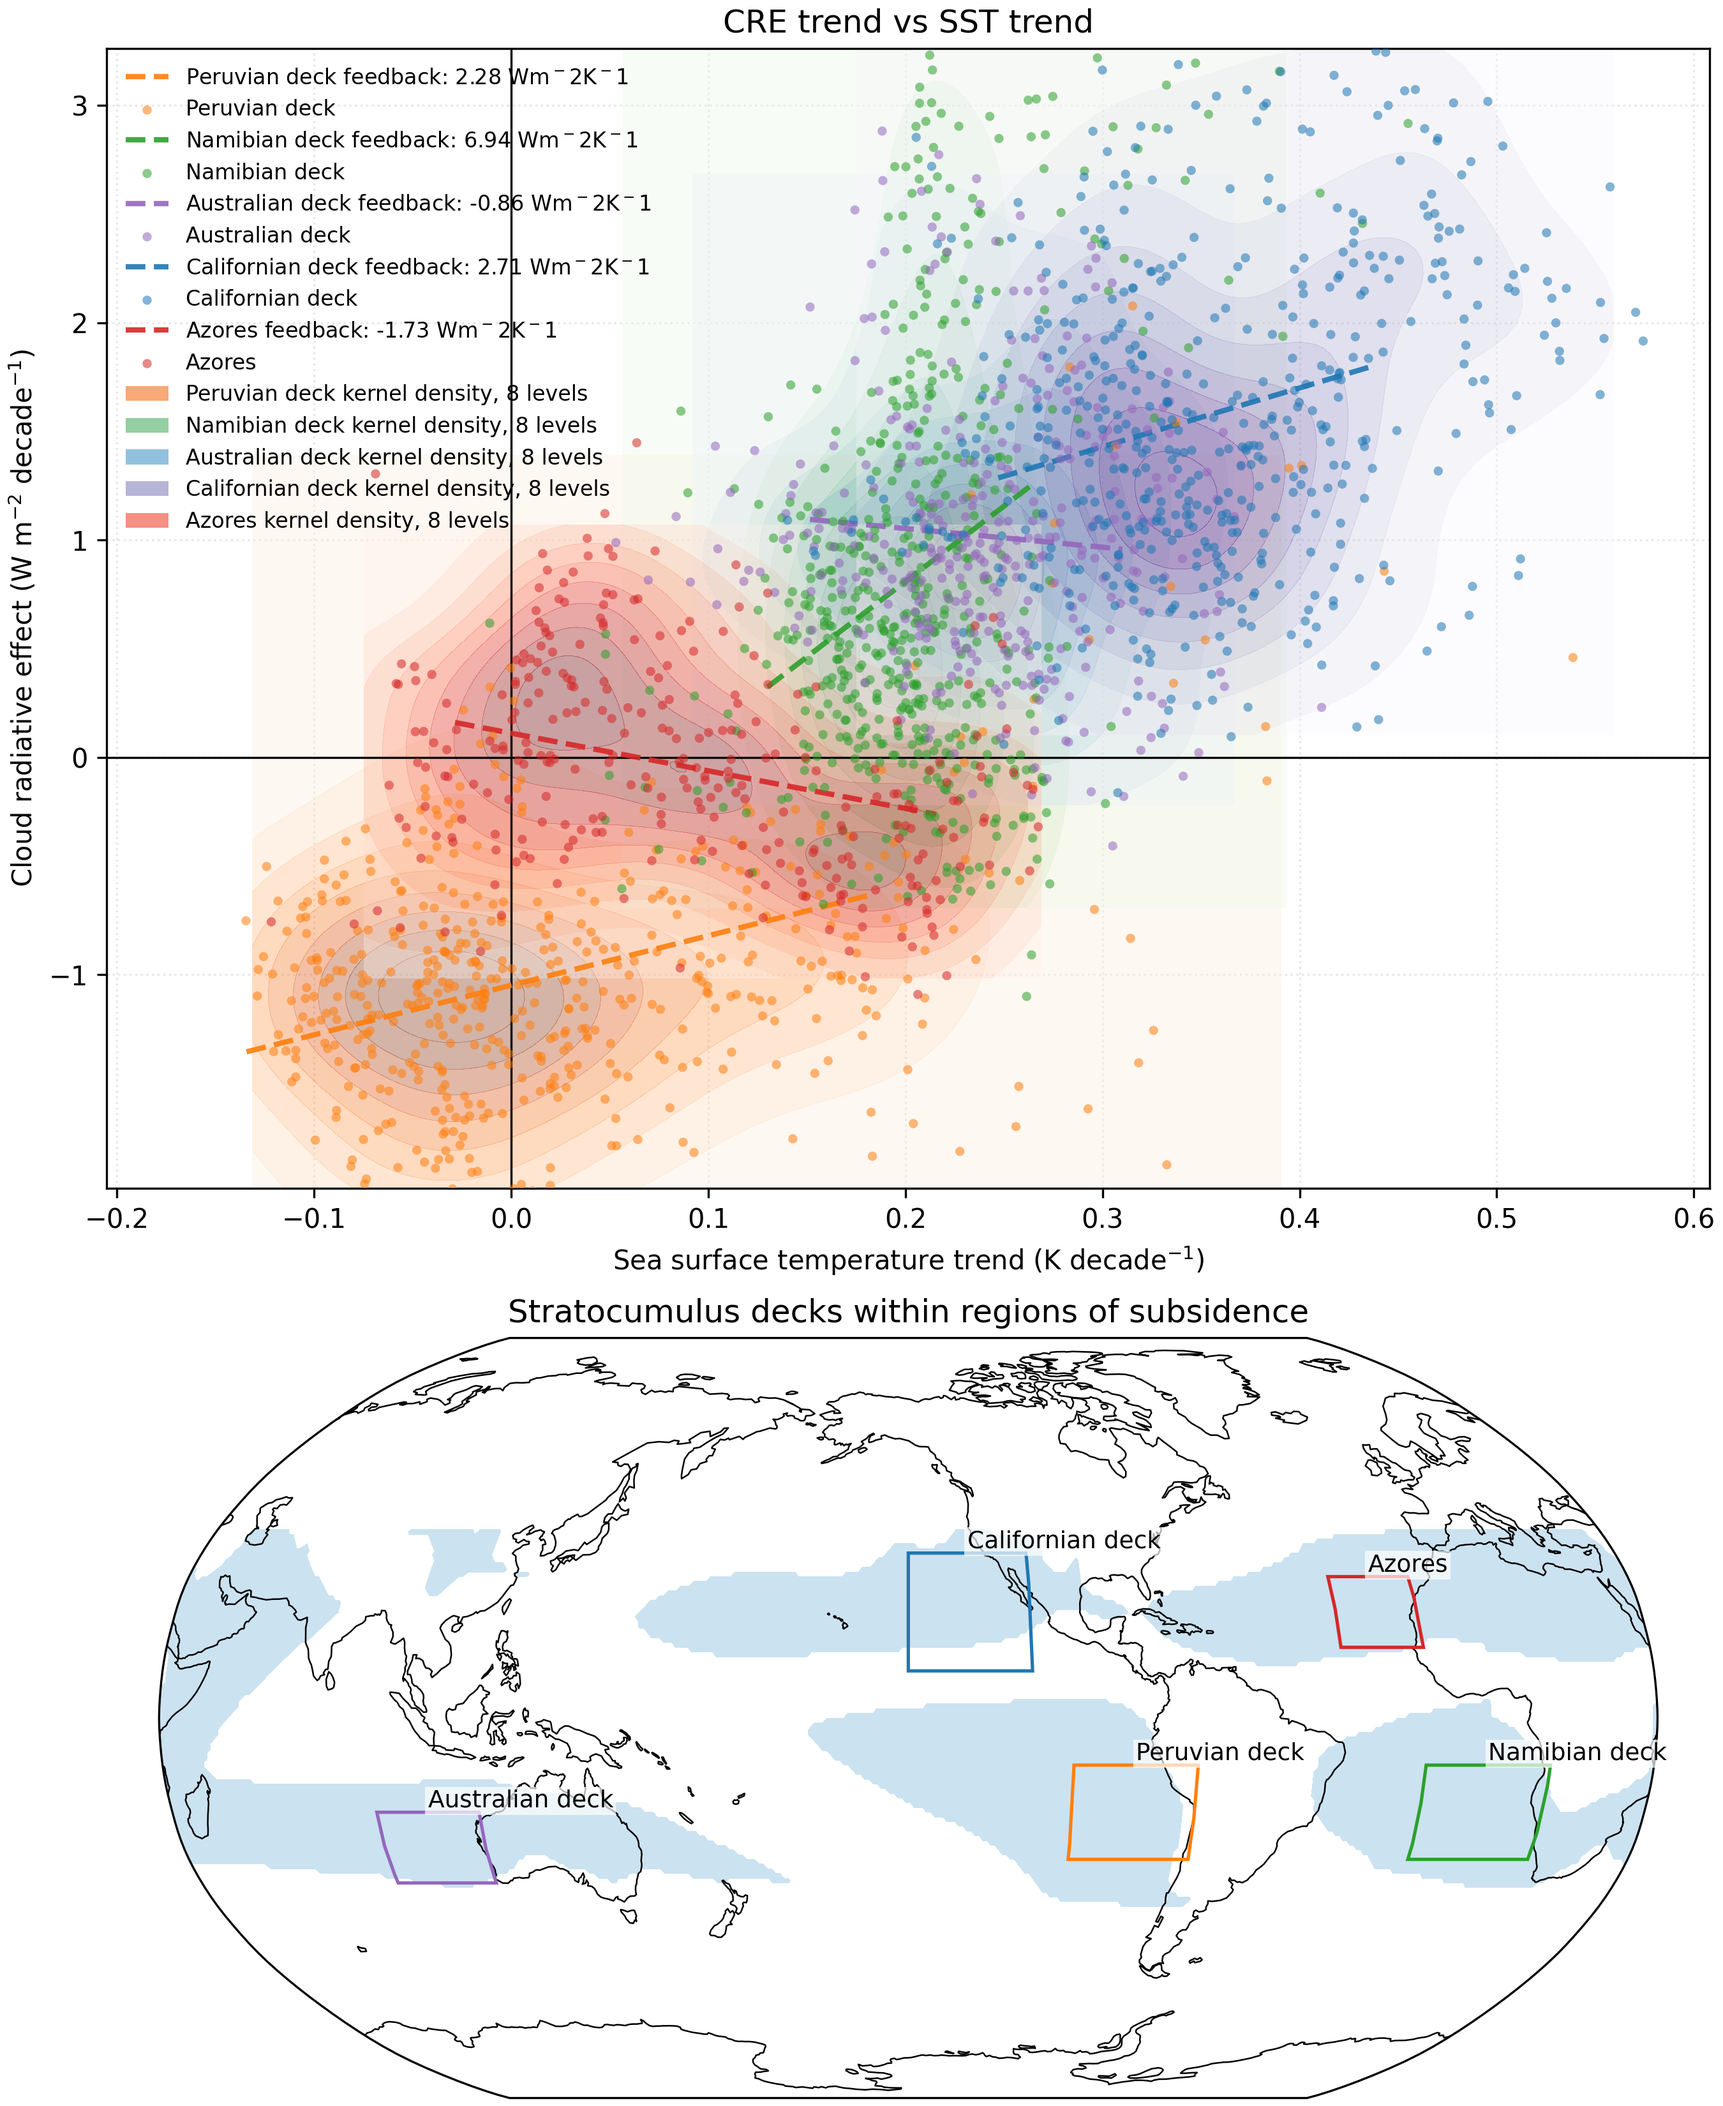
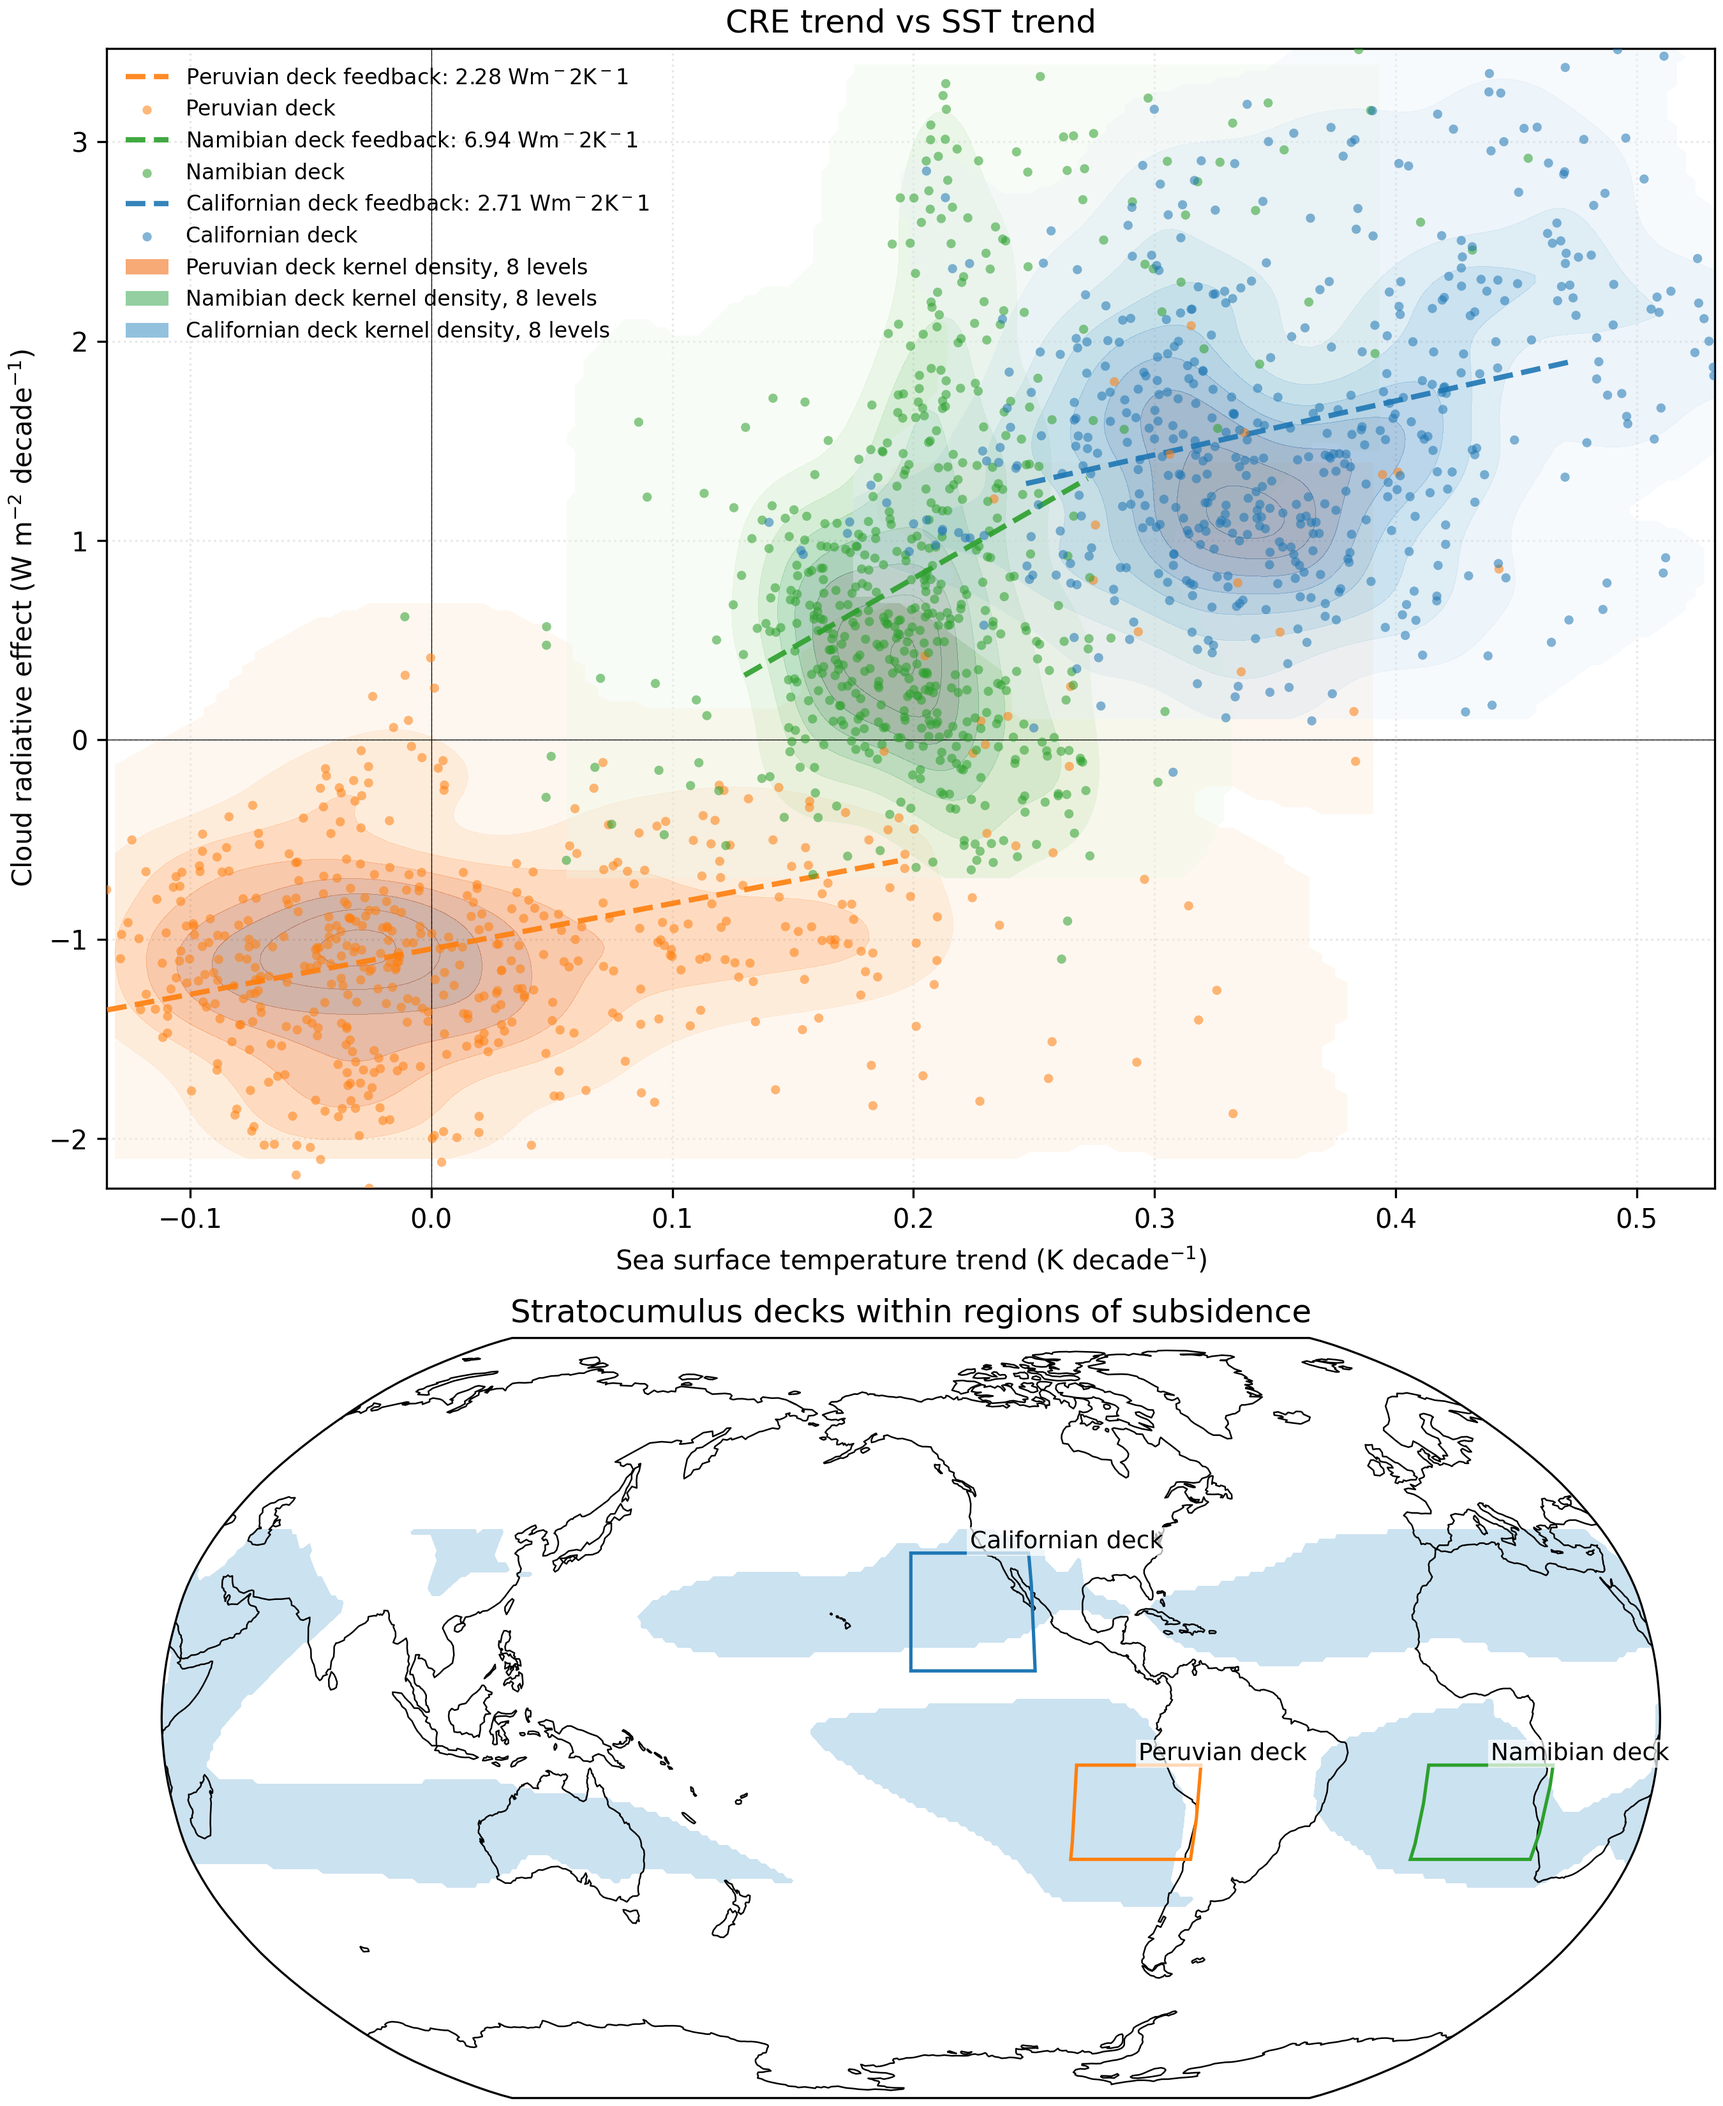
get rid of ugly rectangles and plot nicer range

diff --git a/cre_sst_trends.py b/cre_sst_trends.py
@@ -36,9 +36,9 @@ BOX_REGIONS = [
     # name, lat_min, lat_max, lon_min, lon_max, color
     ("Peruvian deck", -30.0, -10.0, -100.0, -70.0, "tab:orange"),
     ("Namibian deck", -30.0, -10.0, -15, 15, "tab:green"), 
-    ("Australian deck", -35.0, -20.0, 90.0, 115.0, "tab:purple"),
+    #("Australian deck", -35.0, -20.0, 90.0, 115.0, "tab:purple"),
     ("Californian deck", 10.0, 35.0, -140.0, -110.0, "tab:blue"),
-    ("Azores", 15.0, 30.0, -35.0, -15.0, "tab:red"),
+    #("Azores", 15.0, 30.0, -35.0, -15.0, "tab:red"),
 ]
 
 def main() -> None:
@@ -160,7 +160,7 @@ def main() -> None:
         samples = np.vstack([xs_std, ys_std]).T
 
         # fit KDE in standardized space; bandwidth chosen empirically
-        kde = KernelDensity(bandwidth=0.4, kernel="gaussian")
+        kde = KernelDensity(bandwidth=0.25, kernel="gaussian")
         kde.fit(samples)
 
         # build evaluation grid in original units (zoom to cluster extent)
@@ -199,17 +199,20 @@ def main() -> None:
         # choose a per-box sequential colormap from the small palette
         cmap_name = DENSITY_CMAPS[i % len(DENSITY_CMAPS)]
         cmap = plt.get_cmap(cmap_name)
-        # draw filled contours under the scatter (low alpha)
+        # Mask low-density values
+        dens_masked = np.ma.masked_where(dens < np.nanpercentile(dens, 20.0), dens)
+
+        # Make masked values transparent
+        cmap = plt.get_cmap(cmap_name).copy()
+        cmap.set_under('none')  # Transparent for values below vmin
+
         cf = ax.contourf(
-            Xg,
-            Yg,
-            dens,
+            Xg, Yg, dens_masked,
             levels=8,
             cmap=cmap,
             alpha=0.35,
             norm=norm,
             zorder=2,
-            extend="neither",
         )
         # create a proxy patch for the density legend (use a mid-tone from the cmap)
         proxy_color = cmap(0.6)
@@ -223,27 +226,20 @@ def main() -> None:
         all_plot_x.extend(xs_pts[np.isfinite(xs_pts)].tolist())
         all_plot_y.extend(ys_pts[np.isfinite(ys_pts)].tolist())
 
+    # set ax limits
     x_arr = np.asarray(all_plot_x, dtype=np.float64)
     y_arr = np.asarray(all_plot_y, dtype=np.float64)
     valid = np.isfinite(x_arr) & np.isfinite(y_arr)
-    if not valid.any():
-        ax.autoscale()
-    else:
-        # show central 98% of the data (1st to 99th percentile) to zoom in and reduce outlier influence
-        xmin = float(np.nanpercentile(x_arr[valid], 1.0))
-        xmax = float(np.nanpercentile(x_arr[valid], 99.0))
-        ymin = float(np.nanpercentile(y_arr[valid], 1.0))
-        ymax = float(np.nanpercentile(y_arr[valid], 99.0))
-        # ensure non-zero ranges and add a small padding (2% of the larger range)
-        xrng = max(xmax - xmin, 1e-6)
-        yrng = max(ymax - ymin, 1e-6)
-        pad = 0.02 * max(xrng, yrng)
-        ax.set_xlim(xmin - pad, xmax + pad)
-        ax.set_ylim(ymin - pad, ymax + pad)
+    xmin = x_arr.min()
+    xmax = float(np.nanpercentile(x_arr[valid], 99.5))
+    ymin = y_arr.min()
+    ymax = float(np.nanpercentile(y_arr[valid], 99.5))
+    ax.set_xlim(xmin, xmax)
+    ax.set_ylim(ymin, ymax)
 
     # add solid black axes at x=0 and y=0
-    ax.axvline(0.0, color="k", linewidth=0.8, zorder=2)
-    ax.axhline(0.0, color="k", linewidth=0.8, zorder=2)
+    ax.axvline(0.0, color="k", linewidth=0.3, zorder=2)
+    ax.axhline(0.0, color="k", linewidth=0.3, zorder=2)
 
     # merge existing legend entries (gridpoints / mean / fit lines) with density proxies
     handles, labels = ax.get_legend_handles_labels()
